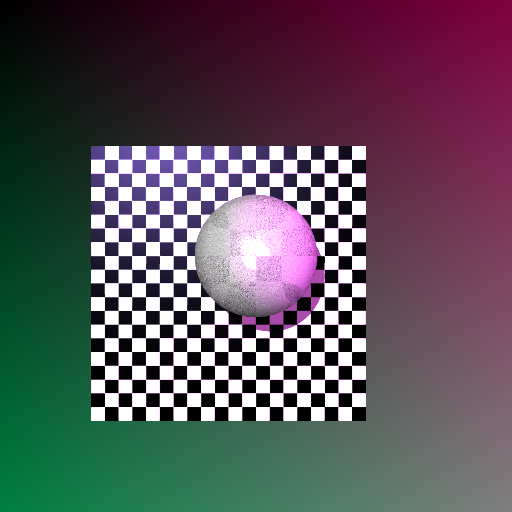
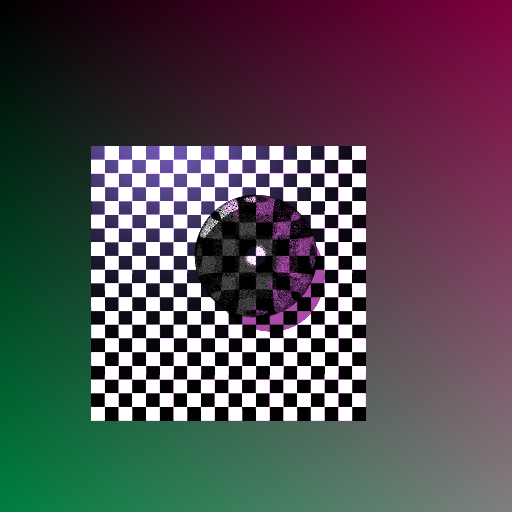
a5 area light dev started

diff --git a/A5/A5.cpp b/A5/A5.cpp
@@ -60,19 +60,18 @@ glm::vec3 trace(SceneNode *root, Ray ray, list<Light *> &lights, const glm::vec3
 		if (glm::dot(viewRay.d, normal) < 0) {
 			if (!refract(viewRay.d, normal, eta, t)) return colour + reflection;
 			Ray refractionRay(point, (EPS + ptao->tao) * t);
-			refraction = ks * trace(root, refractionRay, lights, ambient, depth + 1);
+			refraction = trace(root, refractionRay, lights, ambient, depth + 1);
 			costheta = -glm::dot(viewRay.d, normal);
-			tmp = colour;
 		} else {
 			if (!refract(viewRay.d, -normal, 1.0 / eta, t)) return reflection;
 			Ray refractionRay(point, (EPS + ptao->tao) * t);
-			refraction = ks * trace(root, refractionRay, lights, ambient, depth + 1);
+			refraction = trace(root, refractionRay, lights, ambient, depth + 1);
 			costheta = glm::dot(refractionRay.d, normal);
 		}
 
 		double R0 = pow(eta - 1, 2) / pow(eta + 1, 2);
 		double R = R0 + (1 - R0) * pow(1 - costheta, 5);
-		return tmp + R * reflection + (1 - R) * refraction;
+		return R * reflection + (1 - R) * refraction;
 	}
 
 	return colour + reflection;
@@ -84,9 +83,9 @@ glm::vec3 process(pixel p, glm::vec3 eye, glm::vec3 view, glm::vec3 up, glm::vec
 
 	for (int i = 0; i < SAMPLE; i++) {
 		for (int j = 0; j < SAMPLE; j++) {
-			double rx = random(0, p.offset);
-			double ry = random(0, p.offset);
-			glm::vec3 direction = normalize(view + (-1 + 2 * (p.y + MIN((ry + j) / SAMPLE, p.offset)) / h) * up + (-1 + 2 * (p.x + MIN((rx + i) / SAMPLE, p.offset)) / w) * left);
+			double rox = random(0, p.offset);
+			double roy = random(0, p.offset);
+			glm::vec3 direction = normalize(view + (-1 + 2 * (p.y + MIN((roy + j) / SAMPLE, p.offset)) / h) * up + (-1 + 2 * (p.x + MIN((rox + i) / SAMPLE, p.offset)) / w) * left);
 			Ray ray(eye, direction);
 			glm::vec3 c = trace(root, ray, lights, ambient, 0);
 			colours.push_back(c);

diff --git a/A5/scene_lua.cpp b/A5/scene_lua.cpp
@@ -371,17 +371,12 @@ int gr_light_cmd(lua_State* L)
   gr_light_ud* data = (gr_light_ud*)lua_newuserdata(L, sizeof(gr_light_ud));
   data->light = 0;
 
+  double pos[3], col[3], falloff[3];
+  get_tuple(L, 1, &pos[0], 3);
+  get_tuple(L, 2, &col[0], 3);
+  get_tuple(L, 3, &falloff[0], 3);
 
-  Light l;
-
-  double col[3];
-  get_tuple(L, 1, &l.position[0], 3);
-  get_tuple(L, 2, col, 3);
-  get_tuple(L, 3, l.falloff, 3);
-
-  l.colour = glm::vec3(col[0], col[1], col[2]);
-
-  data->light = new Light(l);
+  data->light = new Light(glm::vec3(pos[0], pos[1], pos[2]), glm::vec3(col[0], col[1], col[2]), falloff);
 
   luaL_newmetatable(L, "gr.light");
   lua_setmetatable(L, -2);

diff --git a/A5/Light.cpp b/A5/Light.cpp
@@ -4,18 +4,11 @@
 
 #include "Light.hpp"
 
-Light::Light()
-  : colour(0.0, 0.0, 0.0),
-    position(0.0, 0.0, 0.0)
-{
-  falloff[0] = 1.0;
-  falloff[1] = 0.0;
-  falloff[2] = 0.0;
-}
+Light::Light(glm::vec3 pos, glm::vec3 color, double falloff[3]) : position(pos), colour(color), falloff(falloff) {}
 
 std::ostream& operator<<(std::ostream& out, const Light& l)
 {
-  out << "L[" << glm::to_string(l.colour) 
+  out << "L[" << glm::to_string(l.colour)
   	  << ", " << glm::to_string(l.position) << ", ";
   for (int i = 0; i < 3; i++) {
     if (i > 0) out << ", ";

diff --git a/A5/Light.hpp b/A5/Light.hpp
@@ -4,13 +4,12 @@
 
 #include <glm/glm.hpp>
 
-// Represents a simple point light.
-struct Light {
-  Light();
-  
+class Light {
+public:
+  Light(glm::vec3 pos, glm::vec3 color, double falloff[3]);
   glm::vec3 colour;
   glm::vec3 position;
-  double falloff[3];
+  double *falloff;
 };
 
 std::ostream& operator<<(std::ostream& out, const Light& l);

diff --git a/A5/util.cpp b/A5/util.cpp
@@ -58,6 +58,7 @@ bool refract(glm::vec3 d, glm::vec3 n, double eta, glm::vec3 &t) {
 	double tmp = 1 - pow(eta, 2) * (1 - pow(glm::dot(d, n), 2));
 	if (tmp < 0) return false;
 	t = normalize(eta * (d - n * glm::dot(d, n)) - n * sqrt(tmp));
+    //t = normalize(eta * (d + n * (-glm::dot(d, n) - sqrt(tmp))));
 	return true;
 }
 

diff --git a/A5/AreaLight.hpp b/A5/AreaLight.hpp
@@ -1,0 +1,13 @@
+#pragma once
+
+#include <iosfwd>
+
+#include <glm/glm.hpp>
+#include "Light.hpp"
+
+class AreaLight : public Light {
+public:
+  AreaLight(glm::vec3 pos, double w, double h, glm::vec3 color, double falloff[3]);
+  double width;
+  double height;
+};

diff --git a/A5/AreaLight.cpp b/A5/AreaLight.cpp
@@ -1,0 +1,6 @@
+#include <iostream>
+
+#include <glm/ext.hpp>
+#include "AreaLight.hpp"
+
+AreaLight::AreaLight(glm::vec3 pos, double w, double h, glm::vec3 color, double falloff[3]) : Light(pos, color, falloff), width(w), height(h) {}

diff --git a/A5/Primitive.cpp b/A5/Primitive.cpp
@@ -239,6 +239,7 @@ NonhierCone::NonhierCone(glm::vec3 apex, double angle, double height) : m_apex(a
 NonhierCone::~NonhierCone() {}
 
 TAO* NonhierCone::intersect(Ray ray) {
+
     struct tn {
         double t;
         glm::vec3 n;

diff --git a/A5/util.hpp b/A5/util.hpp
@@ -10,7 +10,7 @@
 #include "PerlinNoise.hpp"
 
 #define EPS 1e-6
-#define THRESHOLD 0.1
+#define THRESHOLD 0.05
 #define SAMPLE 2
 #define MAX_DEPTH 5
 #define ADAPTIVE_DEPTH 1
